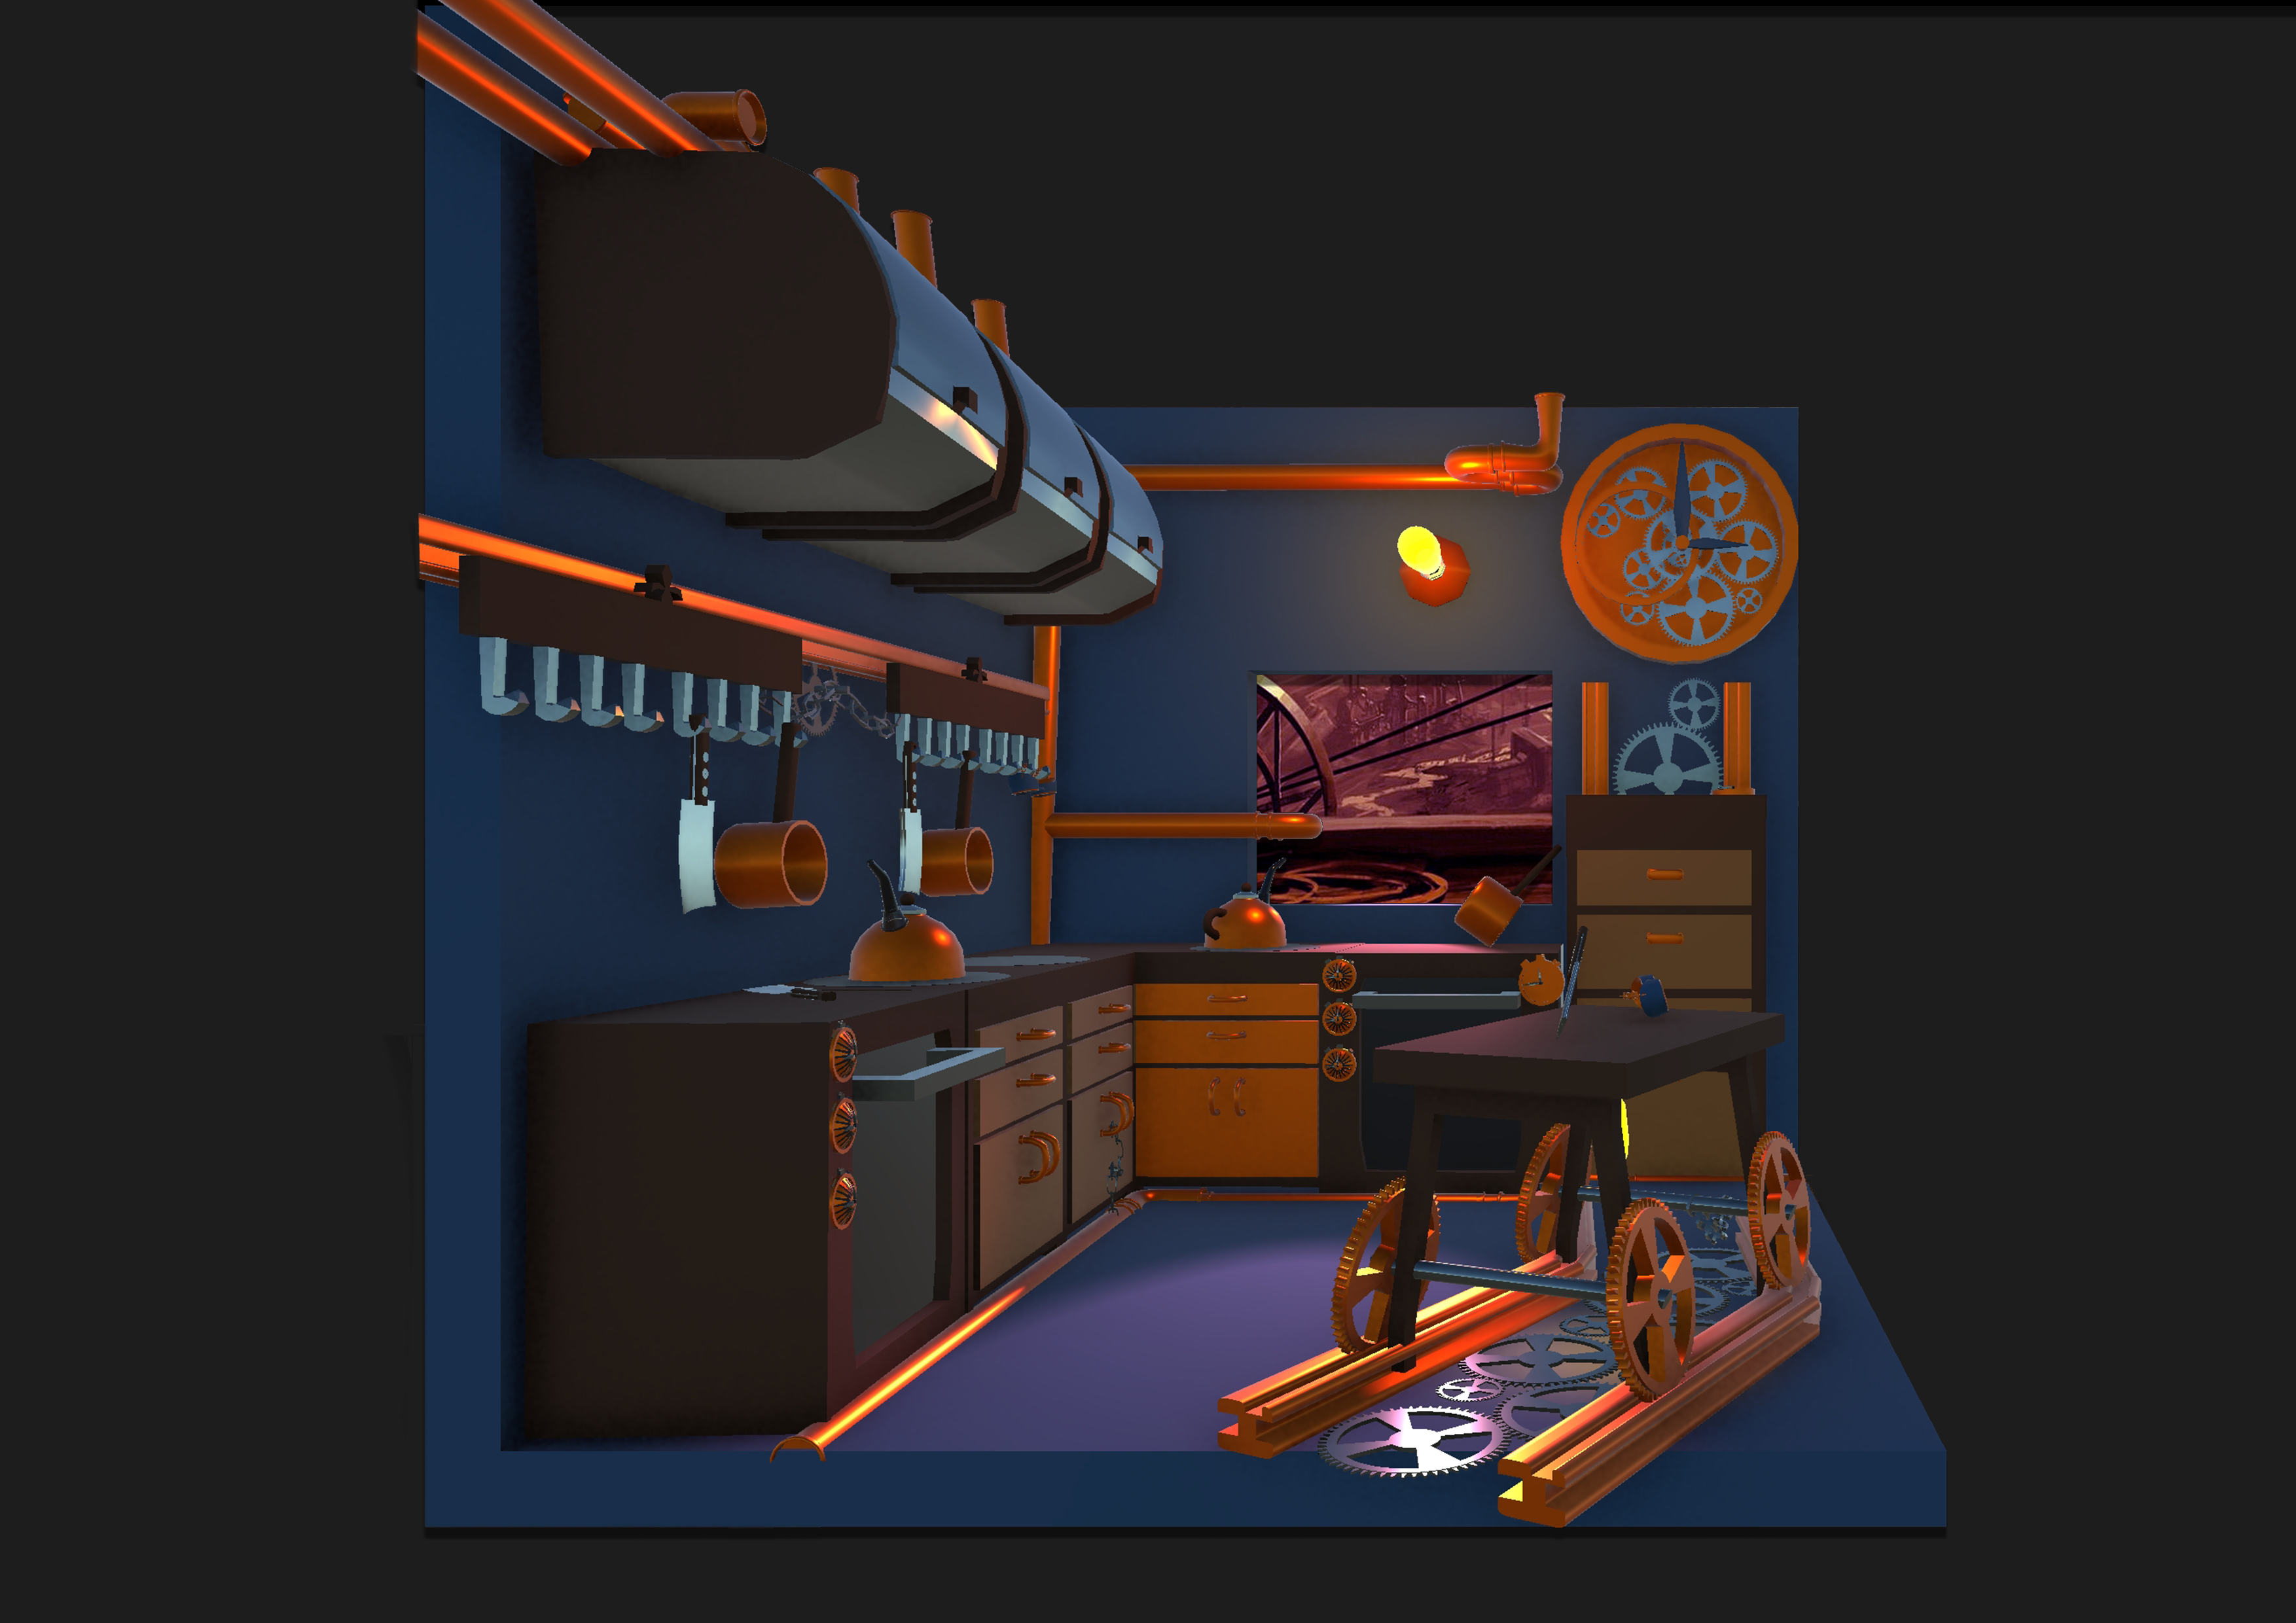
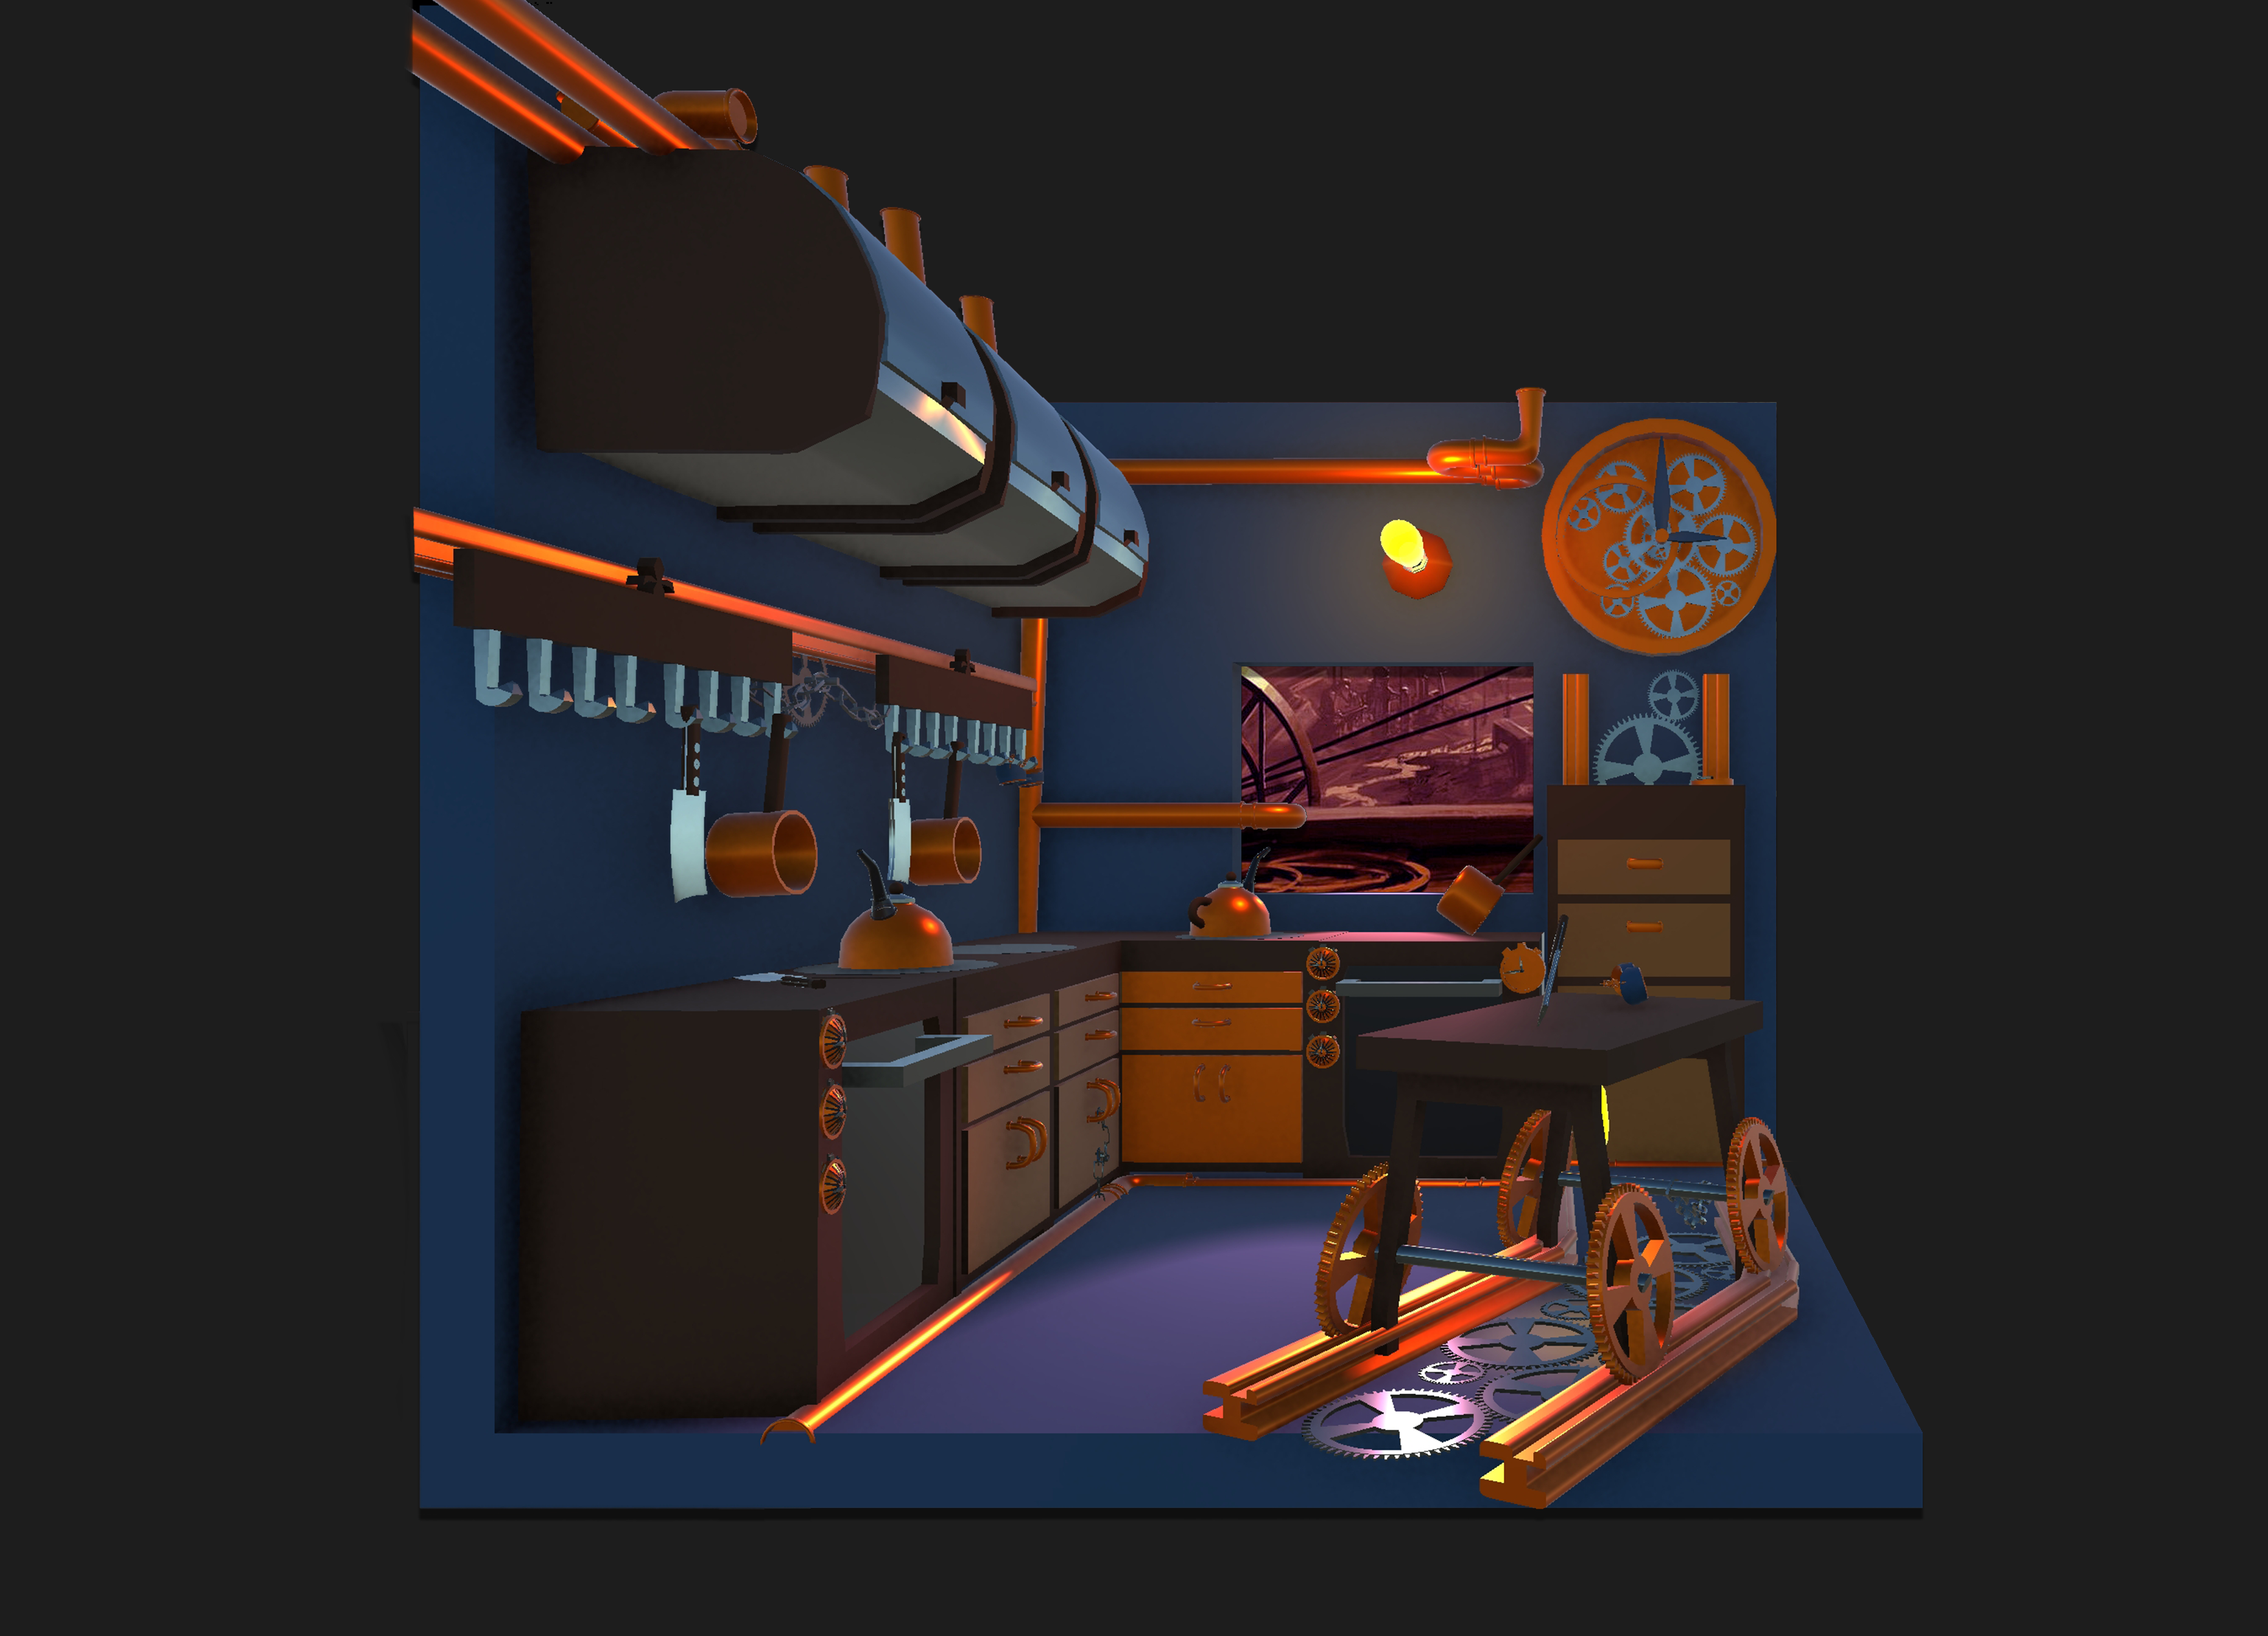
qsd

diff --git a/css/styles.css b/css/styles.css
@@ -11016,7 +11016,7 @@ footer.footer .social-link:hover {
   height: auto;
   padding-top: 8rem;
   padding-bottom: 8rem;
-  background: linear-gradient(90deg, rgba(255, 255, 255, 0.1) 0%, rgba(255, 255, 255, 0.1) 100%), url("../assets/img/bg-masthead.jpg");
+  background: linear-gradient(90deg, rgba(255, 255, 255, 0.1) 0%, rgba(255, 255, 255, 0.1) 100%), url("../assets/img/AdobeStock_1925319672.jpeg");
   background-position: center center;
   background-repeat: no-repeat;
   background-size: cover;

diff --git a/index.html b/index.html
@@ -127,7 +127,7 @@
                                     <p class="mb-0">See More !</p>
                                 </div>
                             </div>
-                            <img class="img-fluid" src="assets/img/JV1.Gachelin Guillaume.Koala.png" alt="..." />
+                            <img class="img-fluid" src="assets/img/Capture d’écran 2026-05-04 200950.png" alt="..." />
                         </a>
                     </div>
                     <div class="col-lg-6">